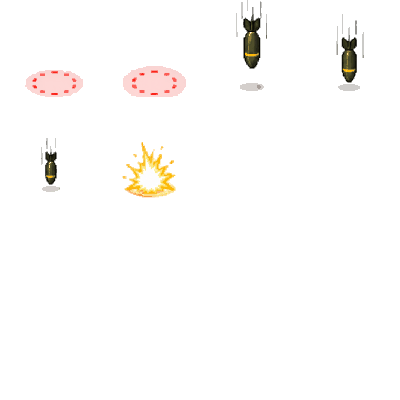
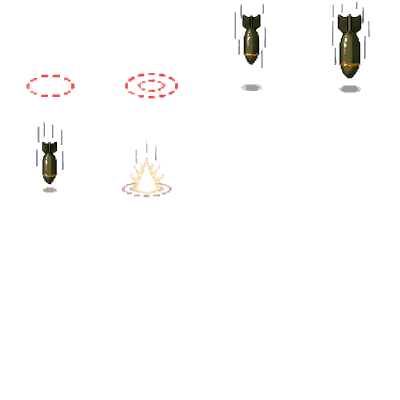
그래픽: vfx_1 다시 생성 반영(폭발 2종·폭탄 낙하·폭격기), 대형 처치를 explosion_l로
- explosion_l·explosion_s: 1프레임 밝은 코어, 한 칸에 하나씩(두 겹 그림·빈 첫 프레임 해결). 대형 처치 연출을 explosion_l ×0.8로 되돌림
- bomb_fall: 1~2프레임에 붉은 링이 남음 → D10에서 3프레임부터 재생(WORKPLAN 메모)
- bomber_shadow: 칸 밖으로 잘려 있음(이전 것도 동일) → D10에서 폭격기 그림으로 그림자를 만듦
- PROGRESS: 세션 사용량 64%(회의 반영 + D06 + D07), vfx_6 미반영 이월

Claude-Session: https://claude.ai/code/session_01SDacoWQTF8L1oFzAeBwYiW

diff --git a/docs/PROGRESS.md b/docs/PROGRESS.md
@@ -1,7 +1,7 @@
 # 진척도 대시보드
 
 > **다음 작업: D08 · 카드 UI와 판정 연출**
-> 이월: 그래픽 재생성·추가 1건(묶음), 실제 GPU FPS 확인 1건, 초반 밸런스 1건(아래 표) · 마지막 갱신: 2026-10-11 (D07 완료)
+> 이월: 그래픽 추가 1건(vfx_6), 실제 GPU FPS 확인 1건, 초반 밸런스 1건(아래 표) · 마지막 갱신: 2026-10-11 (D07 완료, vfx_1 그래픽 반영)
 > 권장 명령: 다음 세션 `/day 4` (D08·D09·D10·D11) 또는 무거운 Day가 부담되면 `/day 3`
 
 ## 전체 진행
@@ -24,7 +24,7 @@
 | --- | --- | --- |
 | 성능 | 적 300체 FPS를 실제 GPU에서 확인(헤드리스 소프트웨어 렌더링은 28fps, 로직만은 60fps). 사용자 PC에서 `npm run dev` → `?debug=1` → F2 → F1 표시의 10초 평균 | D16 전 |
 | 밸런스 | 접촉 피해 E01 6→4, E02 4→3, 스폰 초당 1.1로 임시 완화한 상태. 넉백(D05)·레벨업(D06) 반영됨 → D16에서 정식 조정(업그레이드 수치·레어도 배율 포함) | D16 |
-| 그래픽 | 다시 생성: explosion_l·explosion_s(1프레임이 가장 크고 밝은 흰-노랑 코어, 마지막 칸 크레이터 빼기), bomb_fall(붉은 경고 링 빼기 — 링은 코드가 청록으로 그림). 추가: vfx 5종(scorch_decal·dirt_spray·dust_ring·embers·flare_smoke, ASSETS.md 참고). 지금은 explosion_s 확대·코드 섬광으로 대신함 | D10 전 그래픽 작업 |
+| 그래픽 | 아직 없음: vfx_6(그을음 데칼·흙 튐·먼지 고리·잔불·신호 연기). 노트북 `REGENERATE = "vfx_6"`(또는 PHASE P1 새로 실행). 없어도 D10은 코드 입자로 진행 | D10 전 그래픽 작업 |
 | 그래픽 | fx/mines.png: 칸마다 위아래 두 덩어리(지뢰+폭발일 수도 있음). 쓰는 Day에 의도 확인, 아니면 다시 생성 | 지뢰 스킬 Day |
 
 ## 결정 사항
@@ -43,6 +43,7 @@
 | 2026-10-11 | 설계 회의(PRD v0.2) | 사용자 위임("기믹 + 편한 진행 + 쉬운 조작 + 전략 적재적소")으로 확정. 고급 스킬 키 Q·E·R·F, 인장 수동(Shift+Space), 빈 선택 Space = 추천 조합, 레시피 밖 카드는 단일 효과 후 소모, 소멸 동률 = 비기여 → 오래된 카드, 연속 실패 완충(최장 8연패), 작전 숙련 = 인장 OP −1, 마이너스 단독 = OP 3 폐기 / 조합 = 무리수, S10 혹한 상시 환경, 패배 전공 50%·보스 재도전 1회, 행동형 가이드 8개, 편의 옵션. 근거: [IDEAS.md](IDEAS.md) |
 | 2026-10-11 | 레벨업 패시브 | PRD 7종에 아이콘이 있는 공격력·방어력·치명 피해를 더해 10종. 수정자는 (기본+add)×(1+mul 합)으로 더해서 쌓음(지수 증가 방지). 레어도 수치 배율 1/1.5/2/3, 시작 리롤 1회(PRD 밖 값) |
 | 2026-10-11 | 카드 규칙 세부(PRD 밖 값) | 시작 손패 3장(첫 1분을 가볍게), 성공·실패로 나간 카드는 모두 버린 더미로 가서 덱이 비면 다시 섞임(15분 런에서 덱이 마르지 않게), 행운 1당 +1%p, 마이너스는 장수 보너스에 세지 않음, 척후 보고 대기는 정보 보너스와 중복 없음. 모듈명은 WORKPLAN의 deck.ts·cardJudge.ts 대신 cards.ts·cardChance.ts |
+| 2026-10-11 | vfx_1 다시 생성 반영 | explosion_l·explosion_s: 1프레임 밝은 코어로 개선(두 겹 그림·빈 첫 프레임 해결) → 대형 처치를 explosion_l로 되돌림. bomb_fall은 1~2프레임에 붉은 링이 남아 있어 D10에서 3프레임부터 재생(경고 링은 코드가 청록으로). bomber_shadow는 예전·새 것 모두 칸 밖으로 잘려 있어 D10에서 폭격기 그림을 검게 칠한 반투명 그림자로 대신함(시트 불필요) |
 | 2026-10-11 | 음향 방식 | 효과음은 코드 합성음(파일 0개)이 기본, 같은 이름 파일이 있으면 파일 우선(D15). BGM은 상업 이용 가능한 AI 음악 생성기 또는 BeepBox. 버스 5개 + 리미터, 동시 24음 |
 | 2026-10-10 | 패키지 버전 고정 | phaser 3.90.0(4.x가 최신이지만 마지막 3.x로 고정), typescript 5.9.3, vite 7.3.7, vitest 5.0.3 |
 
@@ -59,8 +60,8 @@
 | D03 | 적, 오브젝트 풀, 공간 분할, 스포너 | ✅ | 4/4 | 1/1 | 2026-10-10 | 41%(D03+D04) | 물리 엔진 없이 공간 해시, 행동 부품(chase·zigzag), 풀 400, 테스트 70개 |
 | D04 | 자동 공격, 피해, 경험치 보급품, 방어·사망 | ✅ | 5/5 | 1/1 | 2026-10-10 | ↑합산 | 소총 자동 조준, 피격 경직·점멸, 별 자석·병합, 방어 −50%, 전사→재시작, 수류탄. 플레이어 항상 맨 앞 |
 | D05 | 타격감 시스템 ★ | ✅ | 4/4 | 2/2 | 2026-10-11 | | §4.4 표 프리셋(feel.json), 히트스톱·흔들림·점멸·넉백·줌·슬로모·화면 플래시, 숫자 40·입자 300 상한, 콤보·찌그러짐·총구 섬광·탄피·비네팅, explosion_s 두 겹 그림 수정, 테스트 95개 |
-| D06 | 레벨업과 업그레이드 | ✅ | 5/5 | 2/2 | 2026-10-11 | | 경험치·능력치 수정자·업그레이드 추첨(레어도·행운·대체 보상) core + 테스트, 패시브 10·무기 신규/강화·카드 보너스, HUD 씬 분리, 레벨업 창(0.4초 잠금·연속·리롤), 일시정지 획득 목록, 효과음, 테스트 125개 |
-| D07 | 카드 시스템 코어 로직 (순수 함수) | ✅ | 8/8 | 1/1 | 2026-10-11 | | cards.json 24장·combos.json 11종·cardRules.json, core/cards.ts(덱·드로우·제출·판정 전이, events)·cardChance.ts(내역·연속 실패 완충)·combos.ts, 무리수·단독 폐기·소멸 동률·인장 수동·OP 정지, 혼입 확률, 테스트 144개 |
+| D06 | 레벨업과 업그레이드 | ✅ | 5/5 | 2/2 | 2026-10-11 | 64%(회의 반영+D06+D07) | 경험치·능력치 수정자·업그레이드 추첨(레어도·행운·대체 보상) core + 테스트, 패시브 10·무기 신규/강화·카드 보너스, HUD 씬 분리, 레벨업 창(0.4초 잠금·연속·리롤), 일시정지 획득 목록, 효과음, 테스트 125개 |
+| D07 | 카드 시스템 코어 로직 (순수 함수) | ✅ | 8/8 | 1/1 | 2026-10-11 | ↑합산 | cards.json 24장·combos.json 11종·cardRules.json, core/cards.ts(덱·드로우·제출·판정 전이, events)·cardChance.ts(내역·연속 실패 완충)·combos.ts, 무리수·단독 폐기·소멸 동률·인장 수동·OP 정지, 혼입 확률, 테스트 144개 |
 | D08 | 카드 UI와 판정 연출 | ⬜ | 0/7 | 0/1 | | | |
 | D09 | 단일 카드 효과와 레벨업 연동 | ⬜ | 0/4 | 0/2 | | | |
 | D10 | 조합 스킬 연출 ① 항공·포병·공병 | ⬜ | 0/4 | 0/2 | | | |

diff --git a/docs/WORKPLAN.md b/docs/WORKPLAN.md
@@ -242,7 +242,7 @@ tools/                    # 에셋 목록·검사, art/(AI 그래픽 생성·변
 - [필수]
   - 타임라인 실행기(초 단위 이벤트 큐, 공용 시계 사용) + 경고 마커(아군 청록) → 착탄 순서, 조준점 규칙(기본 화면 내 최대 밀집 지점, 마우스 지점은 옵션)
   - 데이터 3층(PRD §6.4 v0.2): `data/timelines.json`(언제·어디) → `data/cues.json`(이펙트·입자·feel 프리셋·sfx 묶음) → 프리셋·시트·소리. 마커는 착탄 4프레임 전부터 수축하며 밝아짐, 연속 착탄은 흔들림만 누적하고 히트스톱은 마지막 1발에만
-  - 정밀 폭격, 폭격기 편대(0.3초 간격 3대)
+  - 정밀 폭격, 폭격기 편대(0.3초 간격 3대). 폭격기 그림자는 bomber 그림을 검게 칠한 반투명 스프라이트로(bomber_shadow 시트 안 씀), bomb_fall은 3프레임부터 재생(1~2프레임의 붉은 링 생략)
   - 시한폭탄(3·2·1, 폭발 직전 0.2초 무음 훅), 연발탄(0.12초 간격 8발 부채꼴)
 - [여유]
   - 폭격기 그림자 확대, 착탄 크레이터 데칼
